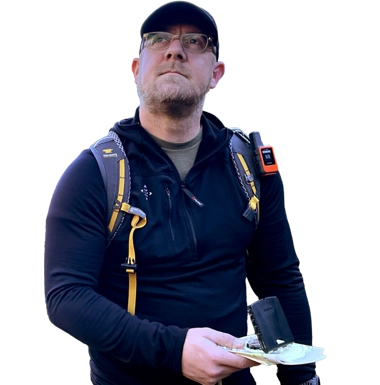
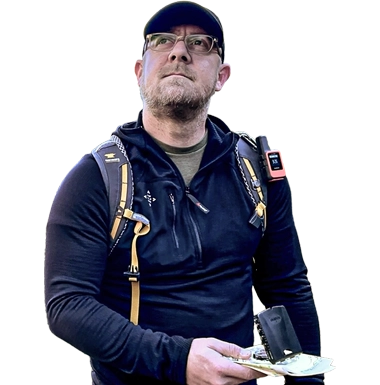
Edits to hero, home

Changed region(s): [[0.1158, 0.0, 0.8684, 1.0], [0.2605, 0.6857, 0.2895, 0.7169]]

diff --git a/index.md b/index.md
@@ -13,7 +13,7 @@ sections:
       with LandNav NW.
     text: I help individuals and groups rediscover the freedom and independence of self-reliant wilderness navigation.
     action:
-      label: Let's explore!
+      label: Let's explore
       url: /contact/
     stats:
       - value: "18"
